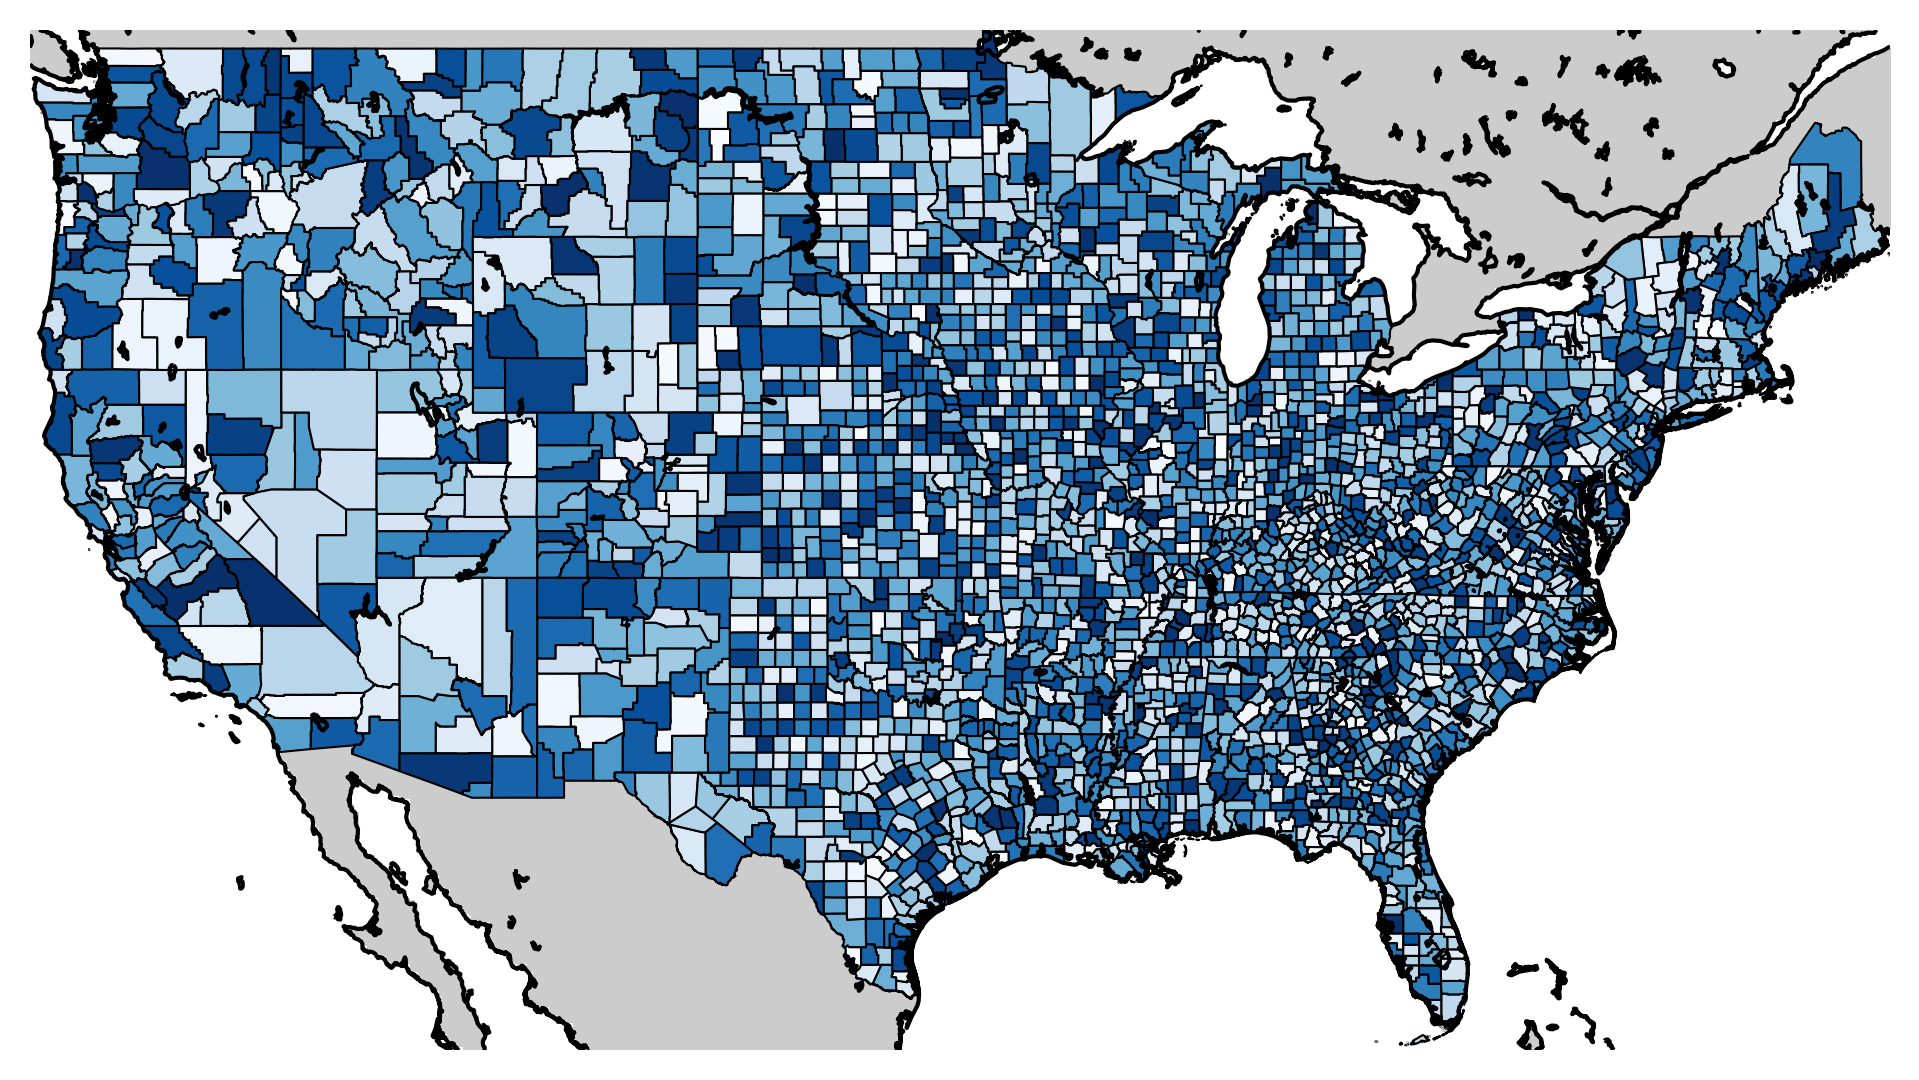
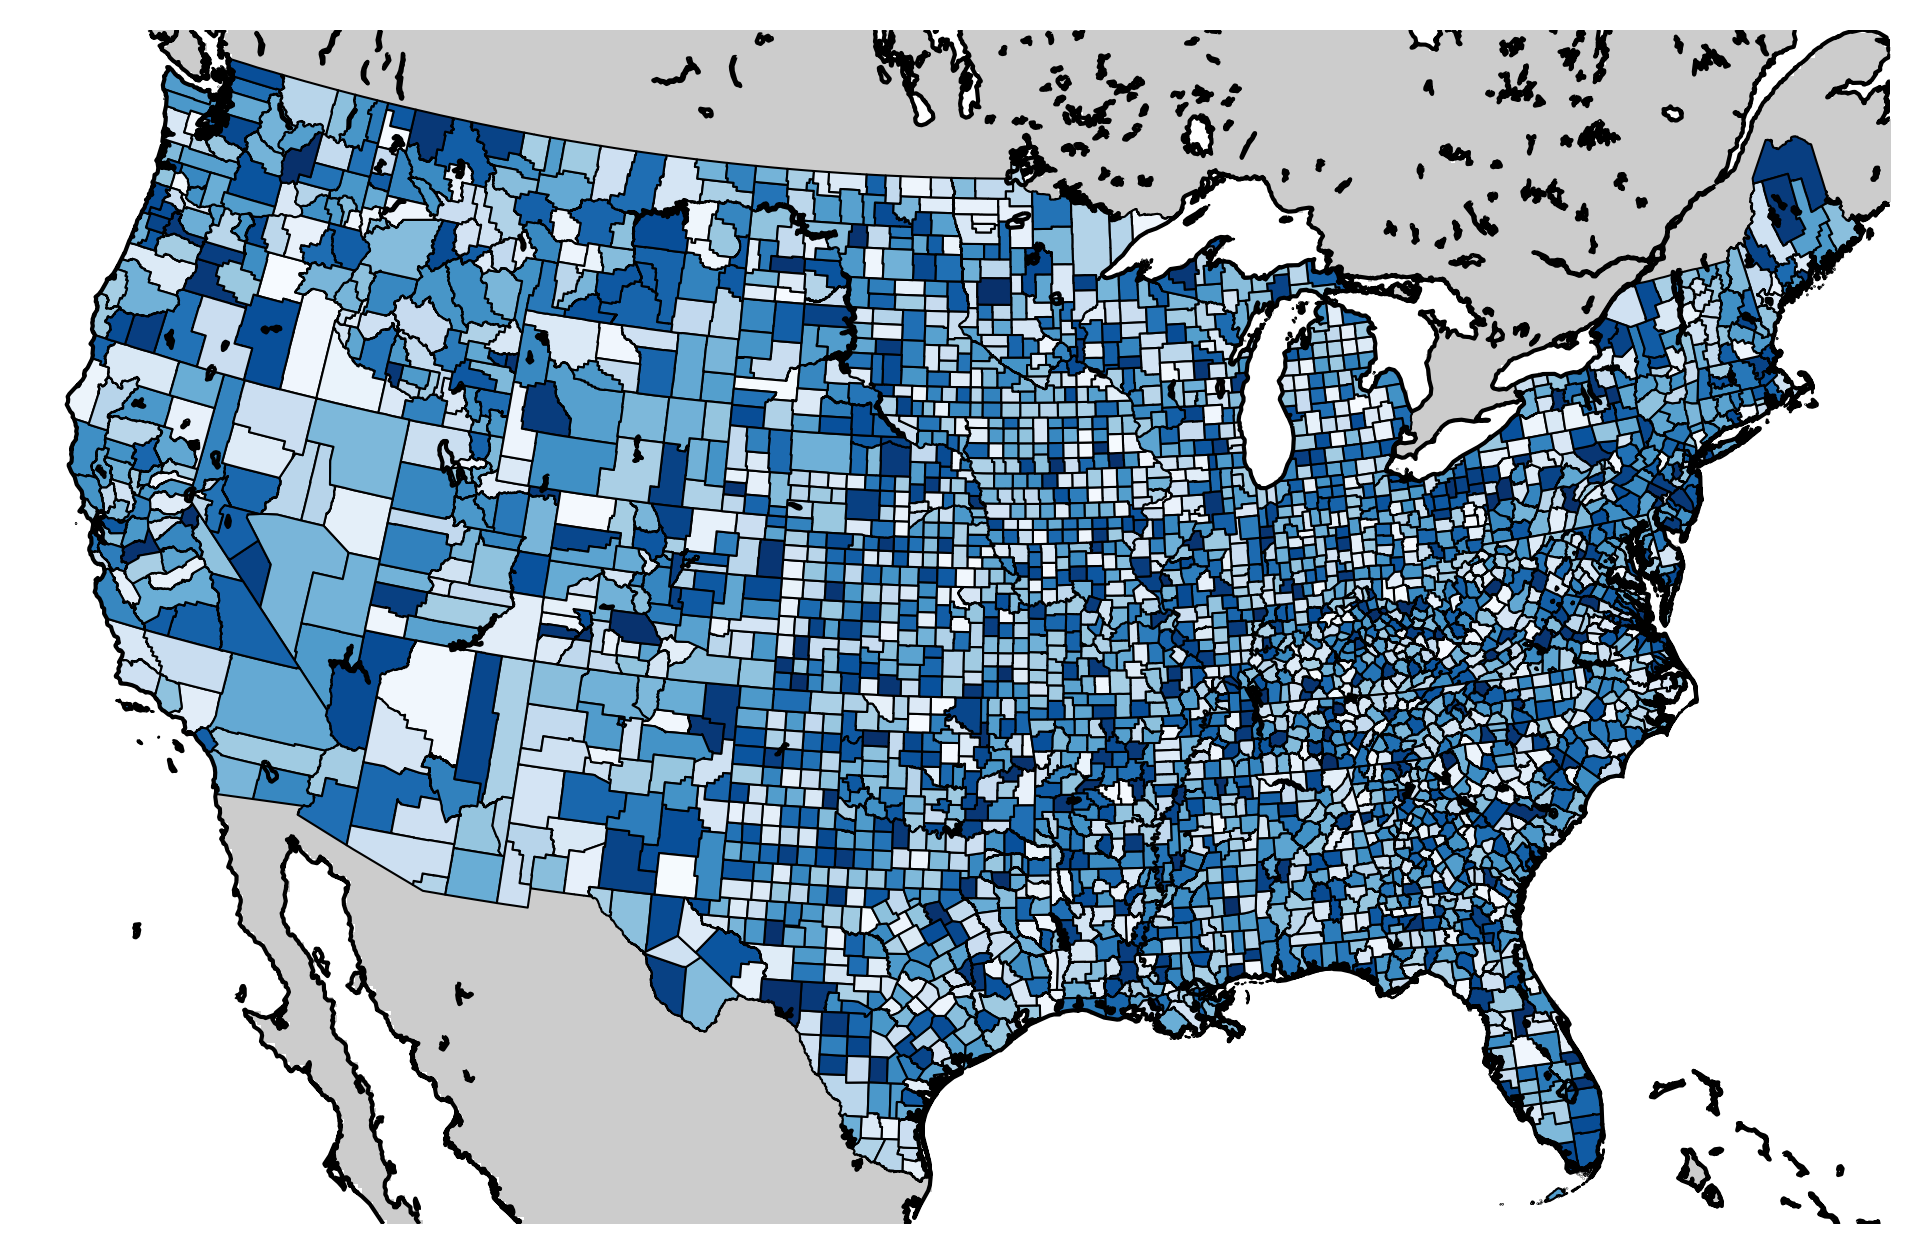
0. Updated demos to use Lambert Conformal Projection

diff --git a/demoBasemapWrapper.py b/demoBasemapWrapper.py
@@ -22,16 +22,16 @@ def main():
     fig = plt.figure()
     ax = fig.add_subplot(1, 1, 1, axisbg='#ffffff', frame_on=False)
 
-    lats = (24.39, 49.38) #southern point, northern point
-    lons = (-124.85, -66.89) #western point, eastern point
+    lats = (22, 49) #southern point, northern point
+    lons = (-119, -64) #western point, eastern point
 
     basemapArgs = {
-        "projection":'merc',
+        "projection":"lcc", "lat_1":32, "lat_2":45, "lon_0":-95,
         "llcrnrlat":lats[0],
         "urcrnrlat":lats[1],
         "llcrnrlon":lons[0],
         "urcrnrlon":lons[1],
-        "resolution":"i", # Increase the resolution here to see the benefit of cached Basemap objects
+        "resolution":"c", # Increase the resolution here to see the benefit of cached Basemap objects
         "fix_aspect":True,
         "suppress_ticks":True,
         #-------------------------------
@@ -44,7 +44,7 @@ def main():
     m.drawcoastlines()
     m.drawlsmask()
 
-    plt.savefig("examples/demoBasemapWrapper.png",dpi=300,bbox_inches="tight")
+    plt.savefig("examples/demoBasemapWrapper.png",dpi=150,bbox_inches="tight")
     plt.close()
 
     print 'Finished in %0.4f seconds' % (time.time() - startTime)

diff --git a/demoPolygonPatchesWrapper.py b/demoPolygonPatchesWrapper.py
@@ -17,7 +17,7 @@ import matplotlib.pyplot as plt
 
 #---------------------------------------------------------------------------------------------------
 def main():
-    print 'Starting PolygonPatches demo'
+    print 'Starting PolygonPatchesWrapper demo'
     startTime = float(time.time())
 
     from simplemaps.BasemapUtils import BasemapWrapper,PolygonPatchesWrapper
@@ -27,11 +27,11 @@ def main():
     fig = plt.figure()
     ax = fig.add_subplot(1, 1, 1, axisbg='#ffffff', frame_on=False)
 
-    lats = (24.39, 49.38) #southern point, northern point
-    lons = (-124.85, -66.89) #western point, eastern point
+    lats = (22, 49) #southern point, northern point
+    lons = (-119, -64) #western point, eastern point
 
     basemapArgs = {
-        "projection":'merc',
+        "projection":"lcc", "lat_1":32, "lat_2":45, "lon_0":-95,
         "llcrnrlat":lats[0],
         "urcrnrlat":lats[1],
         "llcrnrlon":lons[0],

diff --git a/simplemaps/BasemapUtils.py b/simplemaps/BasemapUtils.py
@@ -233,7 +233,7 @@ if __name__ == "__main__":
     ax = fig.add_subplot(1, 1, 1, axisbg='#ffffff', frame_on=False)
 
     lats = (24.39, 49.38) #southern point, northern point
-    lons = (-124.85, -66.89) #western point, easterm point
+    lons = (-124.85, -66.89) #western point, eastern point
 
     m = BasemapWrapper(
         verbose=True,
